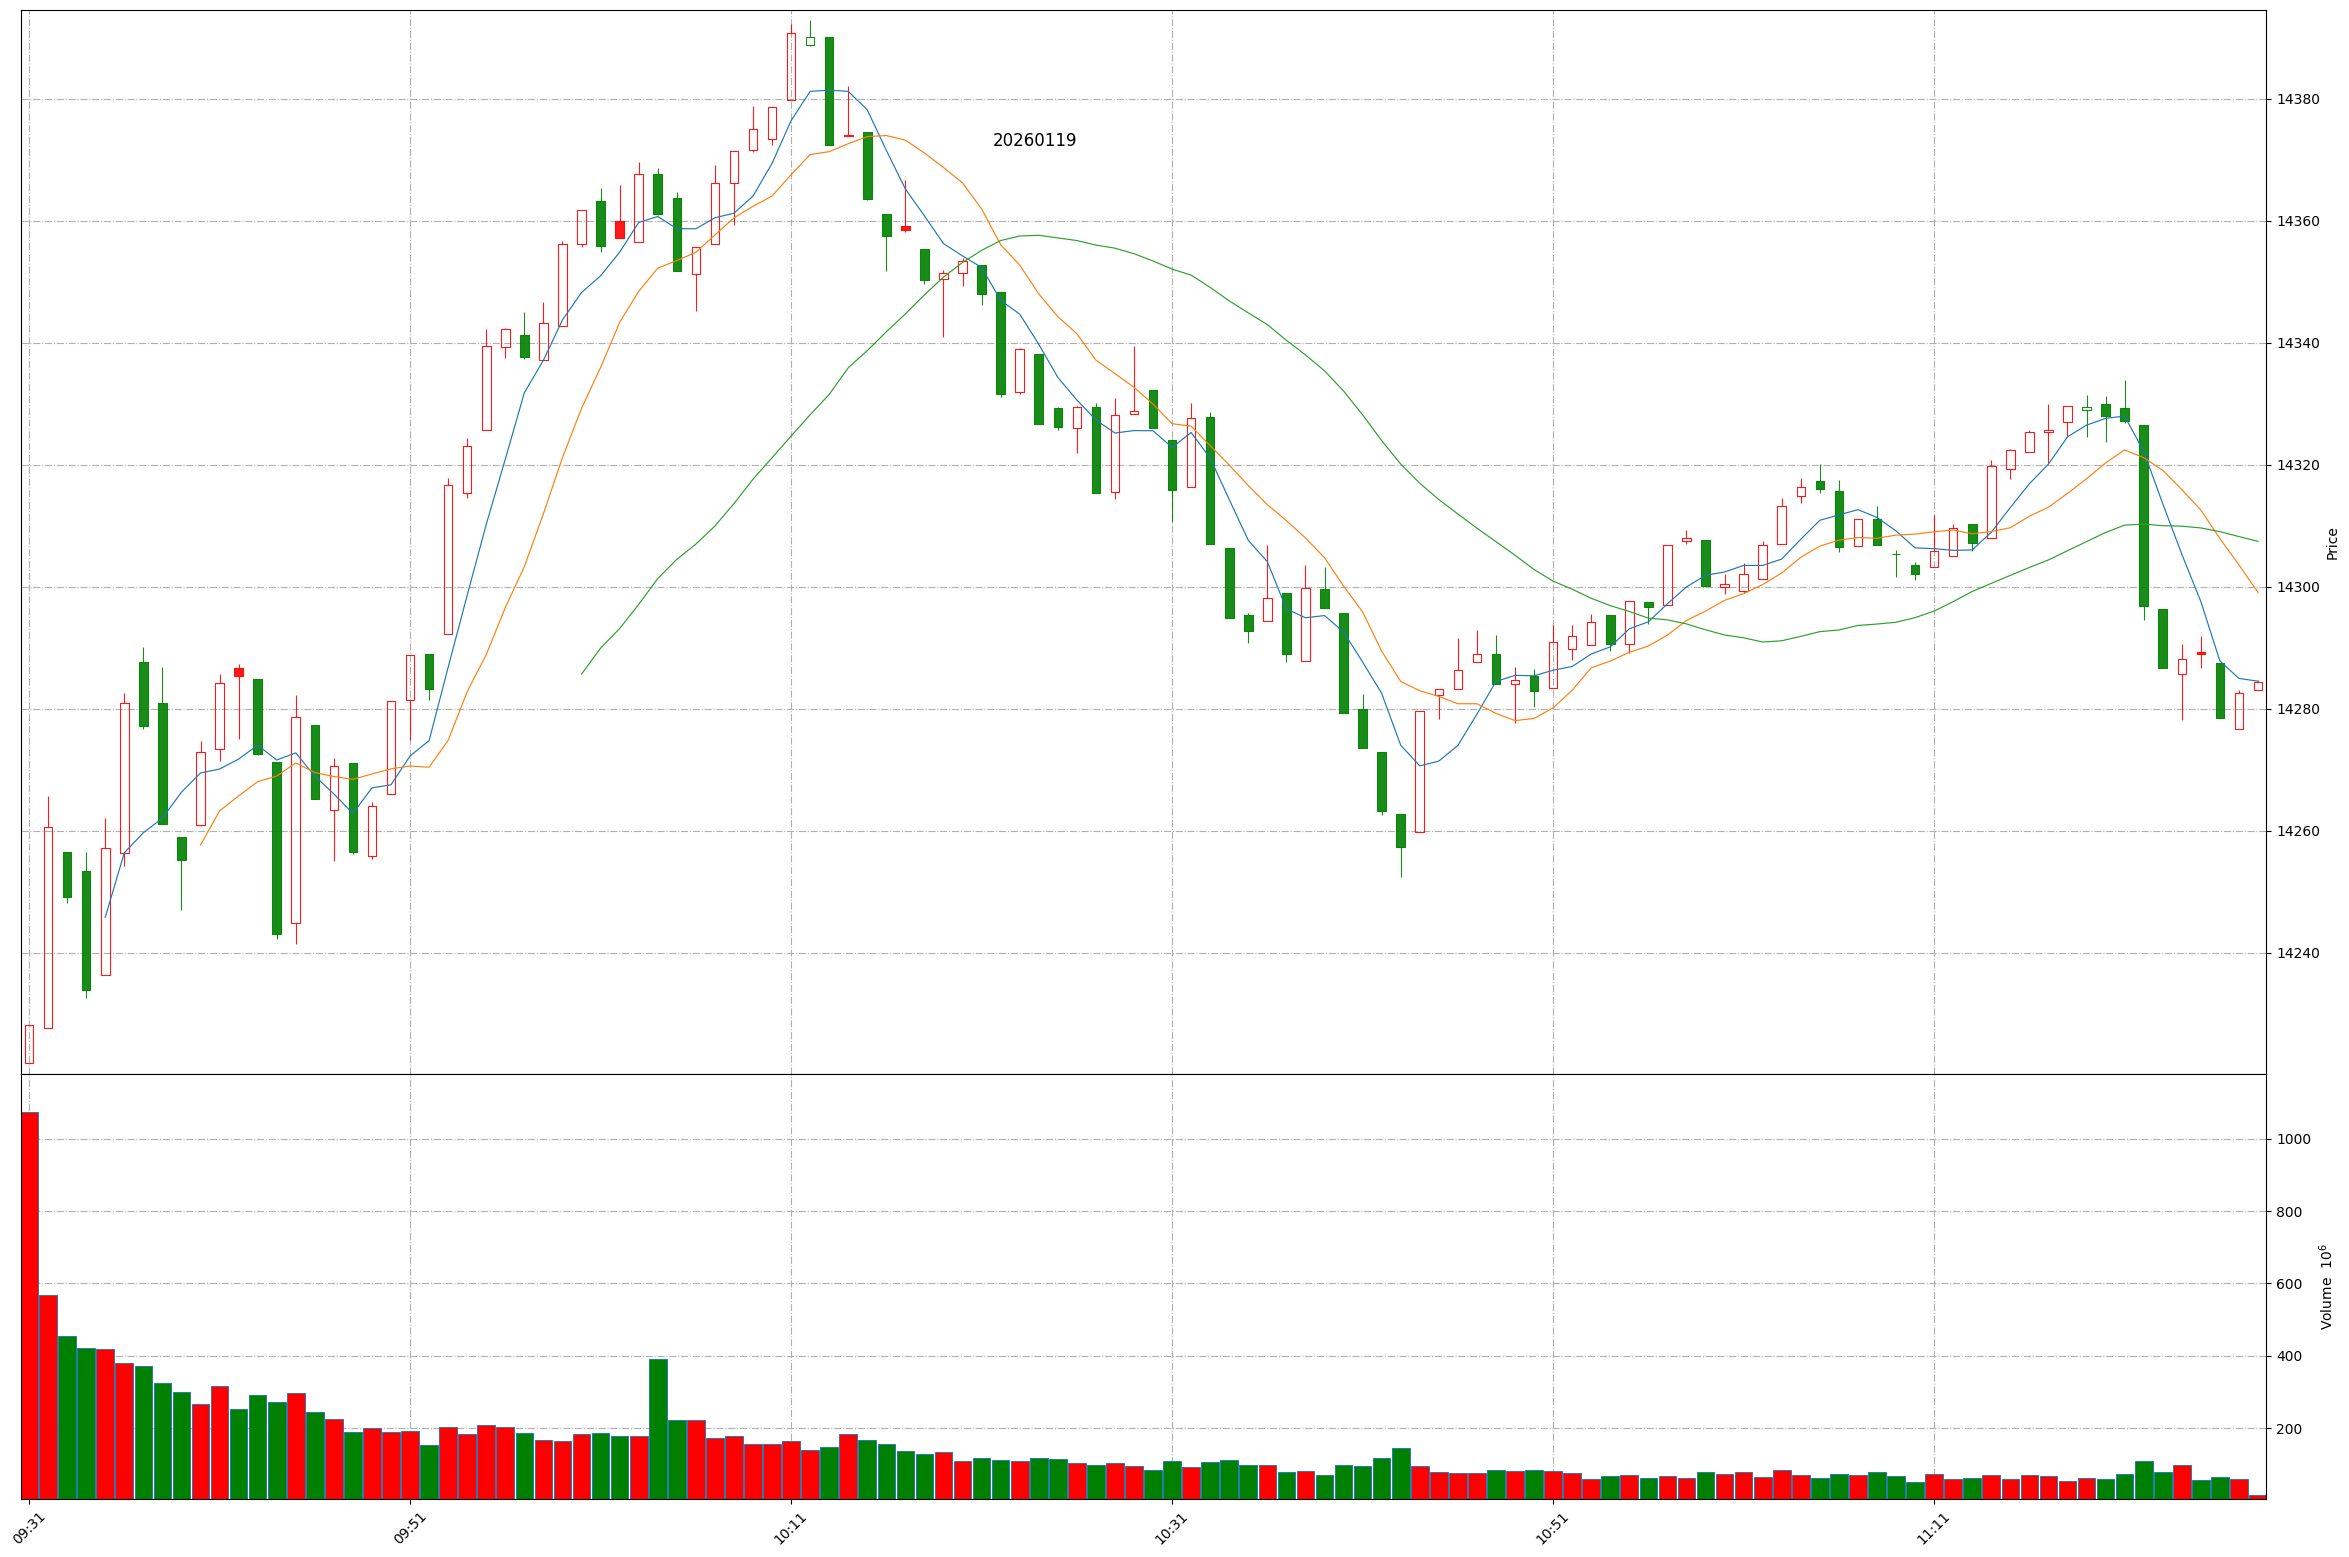
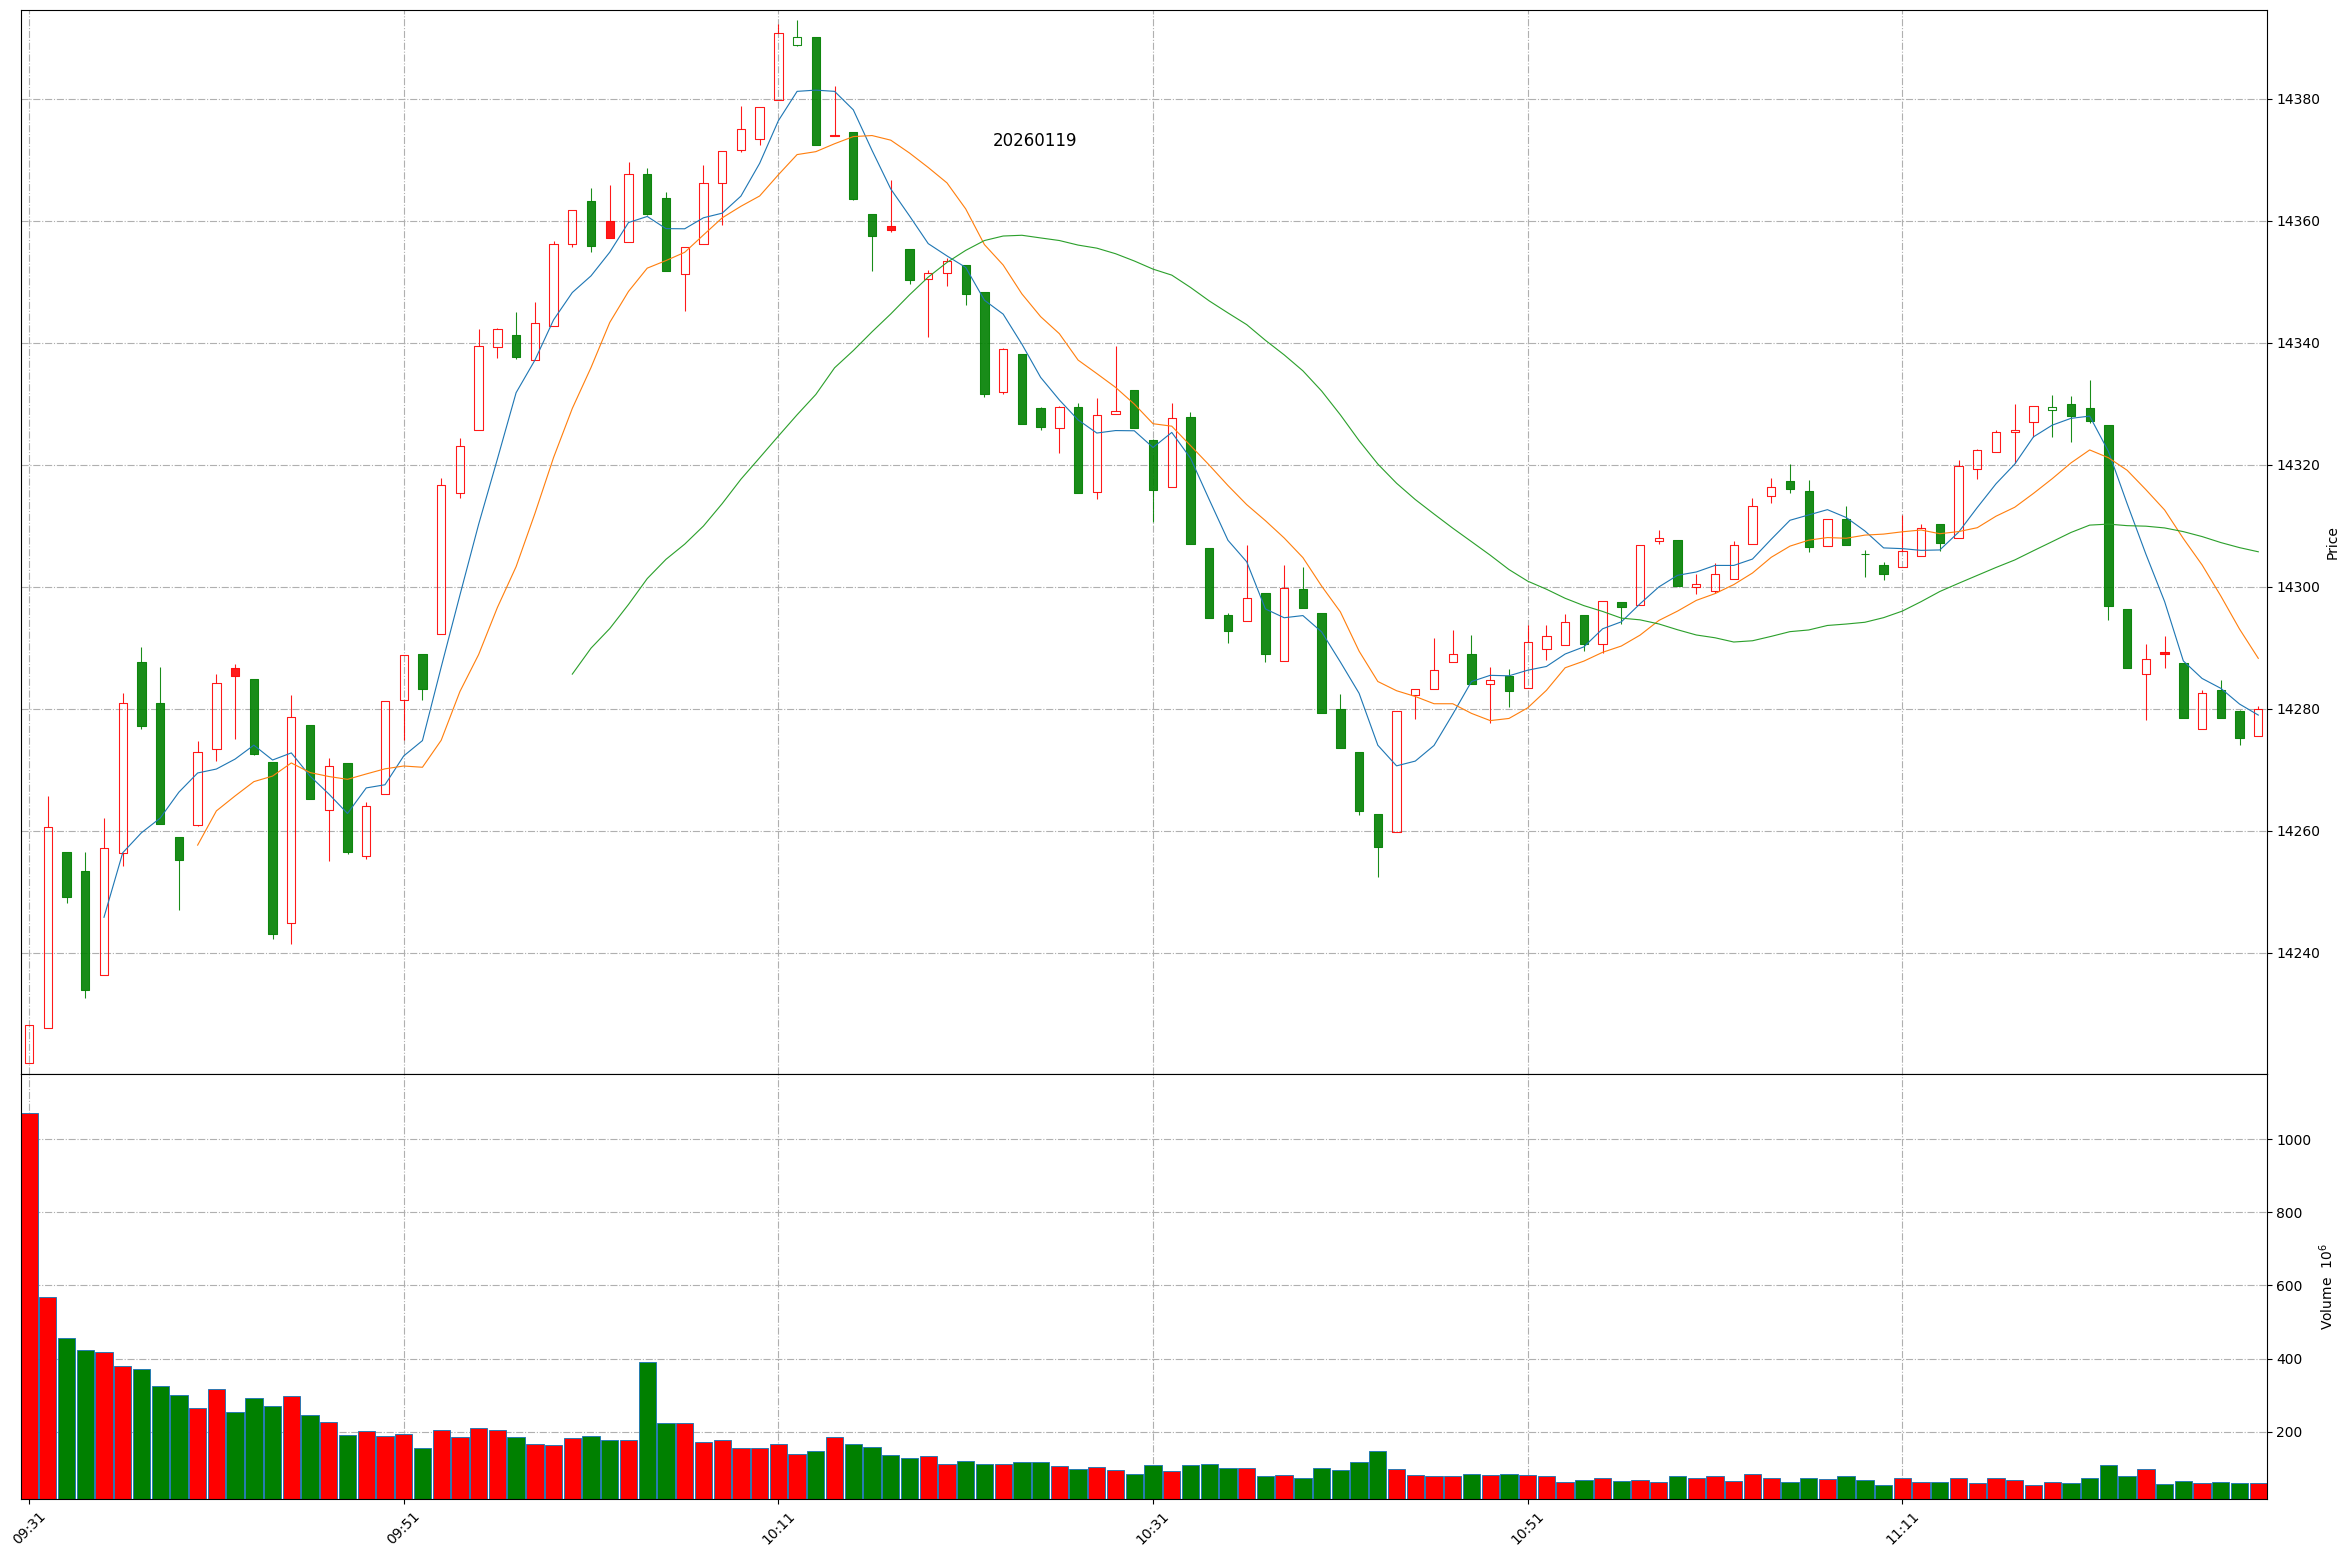
Github action update at 2026-01-19 11:43:38.

diff --git a/README.md b/README.md
@@ -1,11 +1,11 @@
 
 # Daily-A-share-market-quotes 每日 A 股指数（5min 更新）- 20260119
 
-### 上证指数 20260119 11:27
+### 上证指数 20260119 11:43
 ![](./fig/2026/1/20260119-sh000001.png)
 
-### 深证成指 20260119 11:27
+### 深证成指 20260119 11:43
 ![](./fig/2026/1/20260119-sz399001.png)
 
-### 北证50 20260119 11:27
+### 北证50 20260119 11:43
 ![](./fig/2026/1/20260119-bj899050.png)
